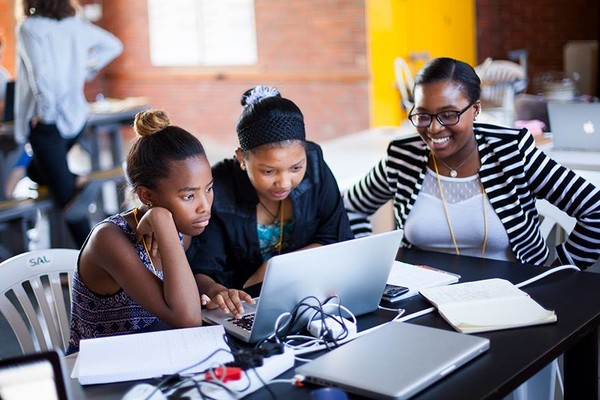
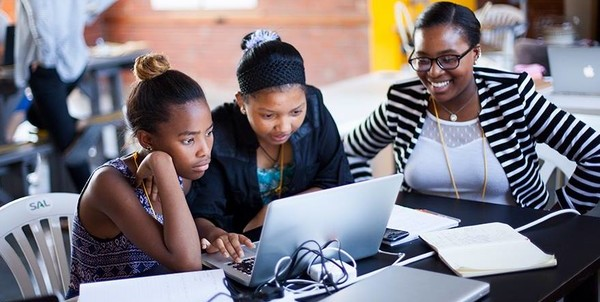
Girls In tech

diff --git a/Web-Pages/GirlsInTech.html b/Web-Pages/GirlsInTech.html
@@ -10,14 +10,7 @@
   <link rel="preconnect" href="https://fonts.gstatic.com" crossorigin />
   <link href="https://fonts.googleapis.com/css2?family=Inter:wght@100;200;300;400;500;600;700;800;900&display=swap" rel="stylesheet" />
   <style>
-    body {
-      padding: 0;
-      background: #f5f5f5;
-      display: flex;
-      justify-content: center;
-      align-items: center;
-      min-height: 100vh;
-    }
+    
 
     .grid {
       display: grid;
@@ -94,18 +87,21 @@
   </style>
 </head>
 
-     <!--  Navigation Bar Begins Here-->
+   
+    
+  <body class="flex flex-col min-h-screen">
+      <!--  Navigation Bar Begins Here-->
       <header class="bg-naleko-dark-blue text-white py-6 px-4 shadow-md">
         <div class="container ">
             <div class="text-4xl md:text-5xl header mb-[31px]">Naleko Digital Solutions</div>
             <nav class="flex flex-wrap justify-center md:justify-end items-center gap-x-6 gap-y-2 text-sm md:text-base header">
-                <a href="#WhoWeAre" class="hover:text-blue-300 transition duration-300">Who we are</a>
+                <a href="WhoWeAre.html" class="hover:text-blue-300 transition duration-300">Who we are</a>
                 <a href="WhatWeDo.html" class="hover:text-blue-300 transition duration-300">What we do</a>
                 <a href="WhoWeServe.html" class="hover:text-blue-300 transition duration-300">Who we serve</a>
                 <a href="ContactUs.html" class="hover:text-blue-300 transition duration-300">Contact Us</a>
                 <a href="CorpTraining.html" class="hover:text-blue-300 transition duration-300">Corp Training</a>
                 <a href="Academy.html" class="hover:text-blue-300 transition duration-300">Academy</a>
-                <a href="GirlsInTech.html" class="hover:text-blue-300 transition duration-300">Girls in Tech</a>
+                <a href="#girls" class="hover:text-blue-300 transition duration-300">Girls in Tech</a>
                 <div class="flex space-x-2 ml-4">
                     <!-- LinkedIn -->
                     <a href="https://za.linkedin.com/company/nalekodigital" class="text-blue-500 hover:text-white/70 transition duration-300" aria-label="LinkedIn">
@@ -127,12 +123,11 @@
         </div>
     </header>
                 <!--  Navigation Bar ENDS Here-->
-    
-  <body class="flex flex-col min-h-screen">
-  <main class="flex-grow p-4 ">
+
+  <main class="flex-grow">
     <section class="mb-12 text-center">
-      <div class="max-w-3xl mx-auto flex flex-col justify-start items-center gap-6">
-        <h1 class="text-indigo-950/95 text-4xl font-black">Empowering Women. Inspiring Innovation</h1>
+      <div class="max-w-6xl mx-auto flex flex-col justify-start items-center gap-6">
+        <h1 id="girls" class="text-indigo-950/95 text-4xl font-black">Empowering Women. Inspiring Innovation</h1>
         <h2 class="max-w-6xl mx-auto text-black text-base font-normal mt-8 text-indigo-950/95 text-2xl font-black">At Naleko Digital Solutions, we champion the advancement of women in technology because innovation thrives when everyone has a seat at the table.</h2>
       </div>
       <div class="max-w-6xl mx-auto text-black text-base font-normal mt-8">
@@ -262,15 +257,16 @@
     Get Started in Salesforce 
       </a>
     </section>
-    
-    <img src="/src/images/TwoLadiesTeaching.jpg" alt="Hero Banner" class="w-full h-[400px] object-cover">
+      <!-- Page break using an image provided by Lerato -->
+
+     <div class=" w-full h-[750px] Two-Ladies-background mx-auto"></div> 
   </main>
 
 
                   <!--  Site Footer Begins Here -->
 
     
-    <footer class=" bg-naleko-dark-blue text-white py-8 px-4 p-4"> <!-- Need five columns-->
+    <footer class=" bg-naleko-dark-blue text-white py-8 px-4"> <!-- Need five columns-->
         <div class="container mx-auto grid grid-cols-1 md:grid-cols-2 lg:grid-cols-5 gap-8">
             <div class="flex flex-col items-center md:items-start text-center md:text-left">
                  <div class="flex items-center mb-4">
@@ -382,8 +378,6 @@
                 <!--  Site footer Ends Here -->
     
 
-</body>
-
 <script>
     document.addEventListener("DOMContentLoaded", function () {
         const track = document.querySelector(".carousel-track");
@@ -419,6 +413,10 @@
         window.addEventListener("resize", updateCarousel);
     });
 </script>
+
+
+</body>
+
 
 </html>
 

diff --git a/src/StylesFinal.css b/src/StylesFinal.css
@@ -309,6 +309,13 @@
     background-repeat: no-repeat; /* Prevents the image from repeating */
 }
 
+.Two-Ladies-background {
+    background-image: url('/src/Images/TwoLadiesTeaching.jpg'); /* **CHANGE THIS PATH** to your image */
+    background-size: cover; /* This makes sure the image covers the entire header */
+    background-position: cover; /* This centers the image within the header */
+    background-repeat: no-repeat; /* Prevents the image from repeating */
+}
+
 
  /* Custom styles for the carousel */
         .carousel-container {
